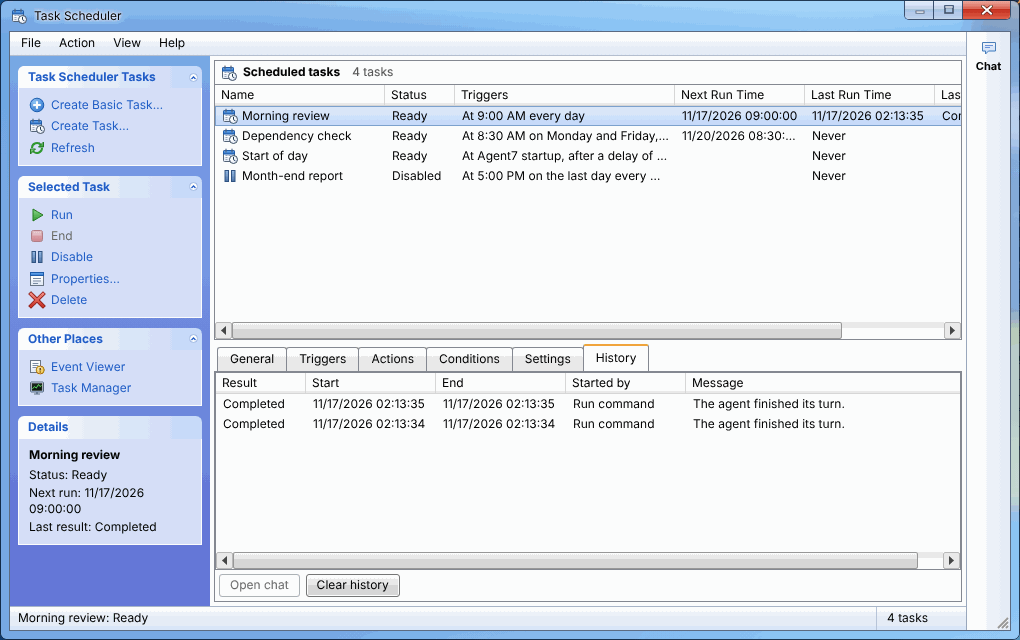
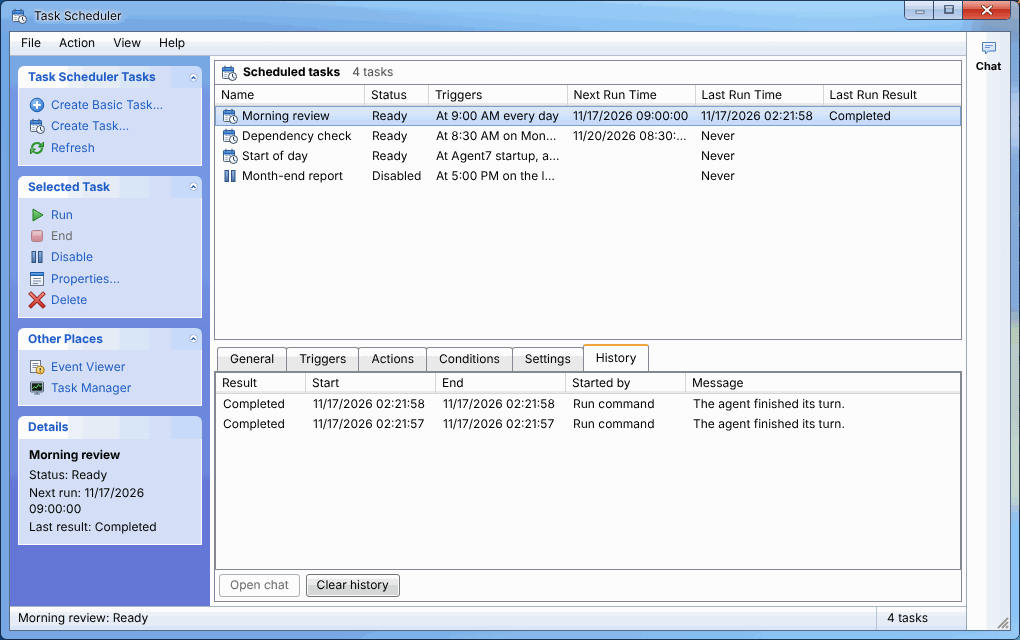
Task Scheduler: list columns that fit, a fuller empty Triggers hint, new screenshots
The library and History lists scrolled sideways because the fixed column widths added up to more than the list at the default window width. Triggers, Last Run Result, Message and Details are now flexible columns with a minimum width, so the list scrolls only when the window is narrower than those minimums. The Create Task Triggers tab explains how to add a trigger when the list is empty. The five Task Scheduler screenshots are taken again, with a weekly trigger in the Create Task dialog.

Claude-Session: https://claude.ai/code/session_012yYSArq3eLvYTRcR8XWFCg

diff --git a/src/renderer/src/lib/apps/task-scheduler/TaskEditorDialog.svelte b/src/renderer/src/lib/apps/task-scheduler/TaskEditorDialog.svelte
@@ -46,12 +46,12 @@
   const ctx = $derived<ActionContext>({ agents, drives, sessions })
   const triggerColumns: ListColumn[] = [
     { key: 'kind', header: 'Trigger', width: 110 },
-    { key: 'details', header: 'Details', width: 260, minWidth: 160 },
+    { key: 'details', header: 'Details', minWidth: 160 },
     { key: 'status', header: 'Status', width: 70 }
   ]
   const actionColumns: ListColumn[] = [
     { key: 'action', header: 'Action', width: 100 },
-    { key: 'details', header: 'Details', width: 340, minWidth: 200 }
+    { key: 'details', header: 'Details', minWidth: 200 }
   ]
   let triggerSelected = $state<string[]>([])
   let actionSelected = $state<string[]>([])
@@ -90,7 +90,7 @@
             <div class="listpage">
               <p>When you create a task, you can specify the conditions that will trigger the task. Without a trigger, the task runs only when you use Run.</p>
               <div class="grid">
-                <ListView testid="task-editor-triggers" columns={triggerColumns} rows={draft.triggers.map(triggerRow)} bind:selected={triggerSelected} aria-label="Triggers" emptyText="No triggers. The task runs only on demand." onactivate={(row) => onedittrigger(Number(row.id))} />
+                <ListView testid="task-editor-triggers" columns={triggerColumns} rows={draft.triggers.map(triggerRow)} bind:selected={triggerSelected} aria-label="Triggers" emptyText="No triggers yet. Click New… to choose when the task starts. Without a trigger, the task runs only when you use Run." onactivate={(row) => onedittrigger(Number(row.id))} />
               </div>
               <div class="buttons">
                 <Button data-testid="task-editor-trigger-new" onclick={() => onedittrigger(null)}>New…</Button>

diff --git a/src/renderer/src/lib/apps/task-scheduler/taskModel.ts b/src/renderer/src/lib/apps/task-scheduler/taskModel.ts
@@ -48,13 +48,17 @@ export const SCHEDULER_TABS: { id: SchedulerTab; title: string }[] = [
   { id: 'history', title: 'History' }
 ]
 
+/**
+ * The columns fit the list at the default window width: Triggers and Last Run Result take what is left (flexible columns), the
+ * others have a fixed width. The list scrolls sideways only when the window is narrower than the sum of the narrowest widths.
+ */
 export const LIBRARY_COLUMNS: ListColumn[] = [
-  { key: 'name', header: 'Name', width: 170 },
-  { key: 'status', header: 'Status', width: 70 },
-  { key: 'triggers', header: 'Triggers', width: 220 },
-  { key: 'next', header: 'Next Run Time', width: 130 },
-  { key: 'last', header: 'Last Run Time', width: 130 },
-  { key: 'result', header: 'Last Run Result', width: 150, minWidth: 110 }
+  { key: 'name', header: 'Name', width: 150 },
+  { key: 'status', header: 'Status', width: 64 },
+  { key: 'triggers', header: 'Triggers', minWidth: 150 },
+  { key: 'next', header: 'Next Run Time', width: 128 },
+  { key: 'last', header: 'Last Run Time', width: 128 },
+  { key: 'result', header: 'Last Run Result', minWidth: 100 }
 ]
 
 export const HISTORY_COLUMNS: ListColumn[] = [
@@ -62,7 +66,7 @@ export const HISTORY_COLUMNS: ListColumn[] = [
   { key: 'start', header: 'Start', width: 130 },
   { key: 'end', header: 'End', width: 130 },
   { key: 'by', header: 'Started by', width: 120 },
-  { key: 'message', header: 'Message', width: 300, minWidth: 160 }
+  { key: 'message', header: 'Message', minWidth: 200 }
 ]
 
 // ---------------------------------------------------------------- the library

diff --git a/src/renderer/src/lib/apps/task-scheduler/TaskDetail.svelte b/src/renderer/src/lib/apps/task-scheduler/TaskDetail.svelte
@@ -23,12 +23,12 @@
   const tabs = SCHEDULER_TABS.map((t) => ({ ...t, testid: `task-scheduler-tab-${t.id}` }))
   const triggerColumns: ListColumn[] = [
     { key: 'kind', header: 'Trigger', width: 110 },
-    { key: 'details', header: 'Details', width: 360, minWidth: 160 },
+    { key: 'details', header: 'Details', minWidth: 160 },
     { key: 'status', header: 'Status', width: 70 }
   ]
   const actionColumns: ListColumn[] = [
     { key: 'action', header: 'Action', width: 100 },
-    { key: 'details', header: 'Details', width: 460, minWidth: 200 }
+    { key: 'details', header: 'Details', minWidth: 200 }
   ]
   let runSelected = $state<string[]>([])
   const chat = $derived(runs.find((r) => String(r.id) === runSelected[0])?.sessionId ?? null)

diff --git a/manuals/task-scheduler.md b/manuals/task-scheduler.md
@@ -104,7 +104,7 @@ If a step has a problem, a red line at the bottom says what to do. The wizard do
 
 Click **Create Task...** to make a task with all options. Click **Properties...** to change a task. Both open the same dialog box. It has five tabs.
 
-![The Create Task dialog with the Triggers tab open and no triggers](../docs/images/task-scheduler-create-task.png)
+![The Create Task dialog with the Triggers tab open and one weekly trigger](../docs/images/task-scheduler-create-task.png)
 
 - **General** – The name, the description, and **Enabled**. A task that is not enabled does not start by itself.
 - **Triggers** – The list of triggers. Click **New...**, **Edit...**, or **Delete**.
